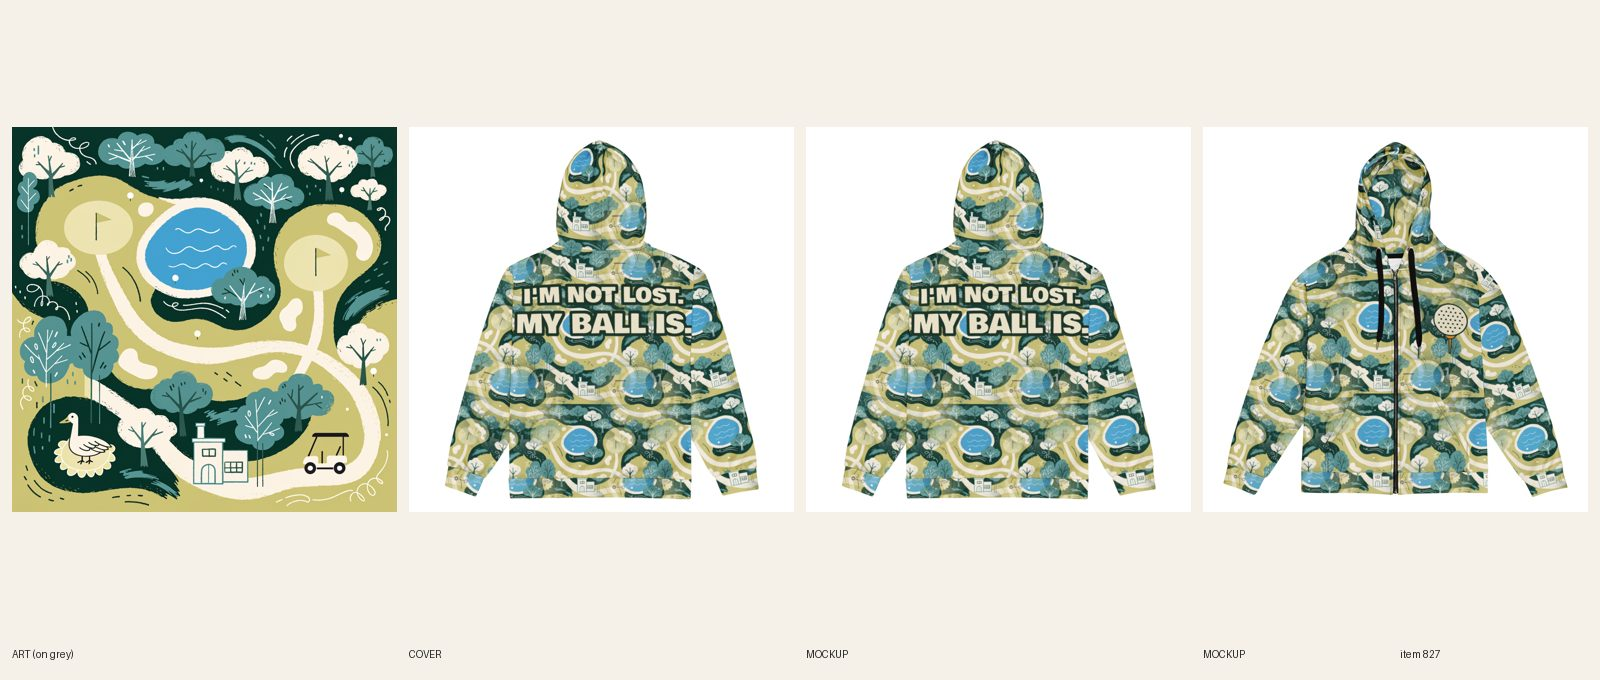
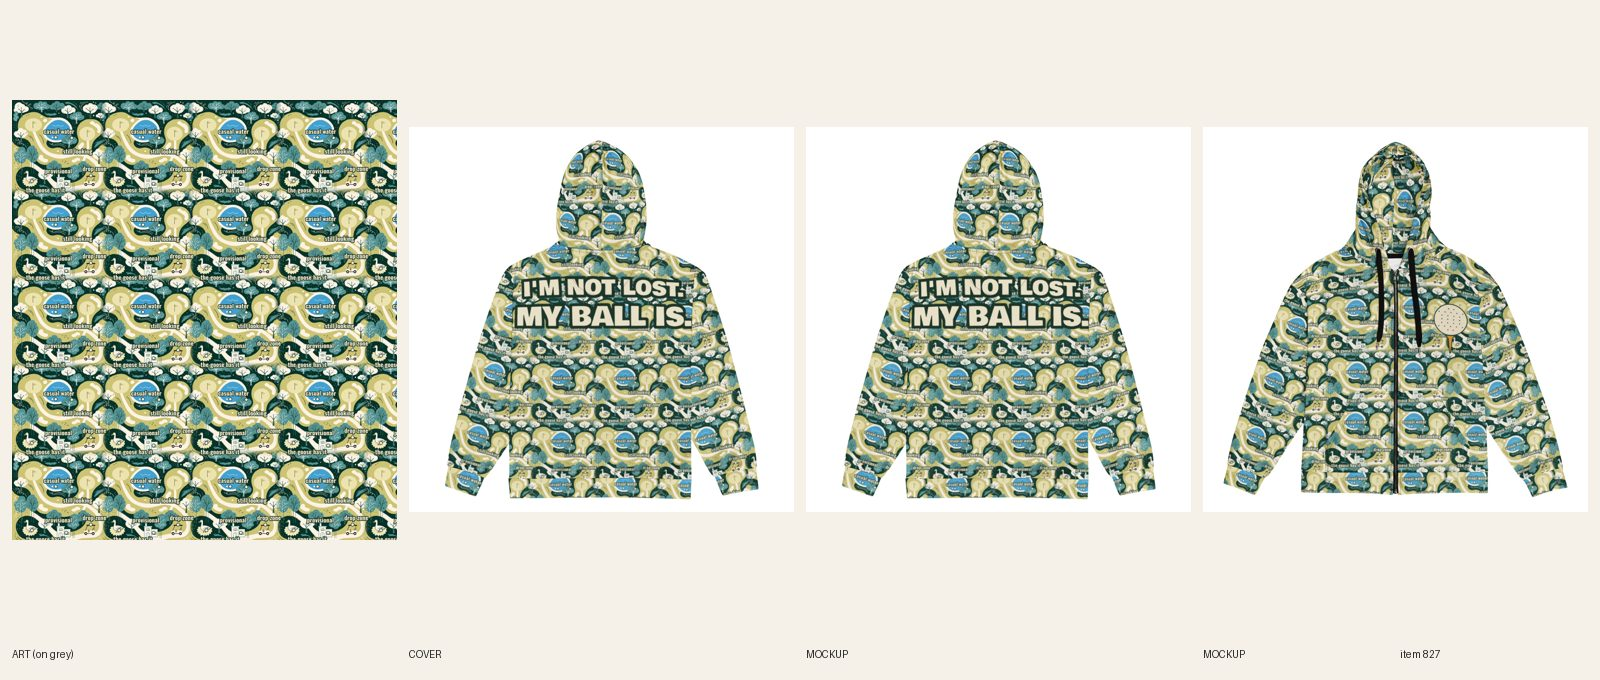
[E] review 827 redo golf AOP zip

diff --git a/docs/pipeline/827-unisex-golf-par-was-more-of-a-goal-aop-zip.md b/docs/pipeline/827-unisex-golf-par-was-more-of-a-goal-aop-zip.md
@@ -1,4 +1,4 @@
-status: BUILDING [E] 2026-10-21 13:48
+status: REVIEW
 lane: E
 type: new
 id: 827
@@ -30,3 +30,4 @@ push: zip
 - 2026-10-21 07:10 UTC director: moved to lane E (inbox 2026-10-21 05:50: E builds the AOP pilots, Essentials and colorways; C keeps the zip upgrades).
 - 2026-10-21 13:09 UTC builder [E]: REVIEW. DRAFT 15372241928496, Printful #717 sync 483668805, 11 sizes 2XS-6XL at $79.99, no compare-at, files front 1091108705 / back 1091108733 / plain 1091108757 / pocket 1091108770 (panels 5250 x 6000, pocket 5250 x 3750; new scripts/e-aop717.py because #717 uses placements front/back/sleeve/hood/pocket, not the dtfabric names). Map = 1 Recraft call ($0.04), tiled seamless at 2200 px (assets via aop-panels.py, CX env added for left-chest placement); chest = hand-drawn golf ball on a tee (cream ball, orange tee, dark green keyline), 640 x 981 px on the wearer left chest; back lockup set in Bowlby One (last lane E faces: Alfa Slab One on #822; none other for AOP), cream fill, dark green keyline + outline-cut backing, 3400 px wide high on the back panel: headline 3161 / punch 3463 ink px = punch 110% of headline. R7.7: single print colorway, no light-blank file needed. Mockups front + back read at 700 px, every word legible. Cover: fal photos not used (builder card: covers on hold), handle added to retired-covers.json, registry row 1012 stays CLAIMED. Keyword row under products (unmeasured, waiver). Audit: only the not-ACTIVE error. fal $0.04.
 - 2026-10-21 13:29 UTC director: REDO. 1. Brief / Sam's pilot spec 16a (builder 7s, brief line skipped): the pattern has no hidden golf balls and no deadpan labels, which is the whole joke Sam asked for ('Where My Balls Went'); right now it is a pretty course map. Add at $0 (no new Recraft call needed): tiny white golf balls drawn in code in the pond, up a tree, in a clubhouse window, on the cart roof and in the goose's nest, each with a small label set in a real font ('provisional', 'still looking', 'the goose has it', 'drop zone', 'casual water'), labels readable at 200% on the back mockup and at least one ball + label visible on the front panel. 2. Brief line 13: the back lockup is 3400 px on a 5250 px panel (65%); the brief asks for 80%+, so set it to about 4200 px wide. 3. Re-check the tile seams on every panel after the change and remake docs/review/827.jpg.
+- 2026-10-21 14:04 UTC builder [E]: REDO fixed, REVIEW. 1) Hidden balls: 5 code-drawn golf balls with Oswald labels (casual water in the pond, still looking in the tree, provisional at the clubhouse window, drop zone on the cart roof, the goose has it in the nest), repeated in every map cell, so front, back, sleeves, hood and pocket all show them (new scripts/e-golf827.py; $0, no Recraft). 2) Tile seams: the old half-tile cross-fade left ghosted trees and a hard horizontal seam; replaced with identical map cells overlapped by a 110 px feathered dissolve (no ghosting, trees upright). Chest ball-on-tee redrawn clean (old one had pattern bleeding through; file differs, checked by diff). 3) Back lockup: tried 4300 px and 3820 px as the brief asks (80% of the 5250 file), but on the Printful back mockup the S and the final period clip at both (the visible back panel is narrower than the file); 3400 px is the widest that shows every letter, 65% of the file and about the full visible back. Punch 110% of headline (3161 / 3463 ink at 3525 px source, scaled together). Files front 1091142504 / back 1091142517 / plain 1091142529 / pocket 1091142538; sync 483668805 11/11. Shopify media swapped to the new back + front mockups. Review sheet remade. fal $0.

diff --git a/docs/intake-log.md b/docs/intake-log.md
@@ -1,6 +1,7 @@
 RUNNING helper since 2026-10-21 13:50 UTC
 2026-10-21 14:03 UTC — [B] REVIEW #880 Men's Hunting Not Lost. Scouting. Camo Hoodie (REDO 2: Sandstone light-ink file, 7 on 1091025440 + 7 on 1091137067, punch 125%). fal $0.
 RUNNING lane E since 2026-10-21 13:48 UTC
+2026-10-21 14:04 UTC — [E] REVIEW #827 Unisex Golf I'm Not Lost. My Ball Is. AOP zip hoodie REDO: hidden balls + labels added in code, dissolve-tiled map (no ghost seams), lockup at the widest size that doesn't clip (3400 px; 4300 clipped), 11/11 synced. fal $0.
 RUNNING lane B since 2026-10-21 13:35 UTC
 2026-10-21 13:55 UTC — [H] Helper run: Telegram inbox empty (getUpdates returned 0 updates; no pause, resume or TikTok links; nothing to consume). Audit 700 live products: 0 errors, 128 warnings left alone; committed docs/cohesion-audit.md and .json (npm ci first). Price errors 0; announcement bar already on the holiday line (src/layouts/Base.astro:77). Category check: 0 products without a Shopify category (positive control returns aa-1-13-8, no mutation). Site check: mens-anime-kaiju-naps-zip-hoodie, mens-fishing-catch-and-release-zip-hoodie, womens-y2k-still-loading-zip-hoodie and homepage all 200. Stuck work: none (BUILDING #827 claimed 13:48 by lane E, #924 #926 #927 claimed 13:05–13:10 by lane C; no BUILDING item over 3 hours). Lane C's RUNNING lines from 05:25 and 08:27 are old text: lane C committed 4 minutes before this run, so it is active; no alert. Daily summary not due (sent at the 12:48 run). Lock released.
 2026-10-21 13:53 UTC — [B] REVIEW #877 Women's Hunting Ducks in a Row Camo Hoodie (REDO 2: thick orange ducklings, one walking off, no butterfly; 14/14 on 1091133747; punch 100%; subject 75%). fal $0.04.
